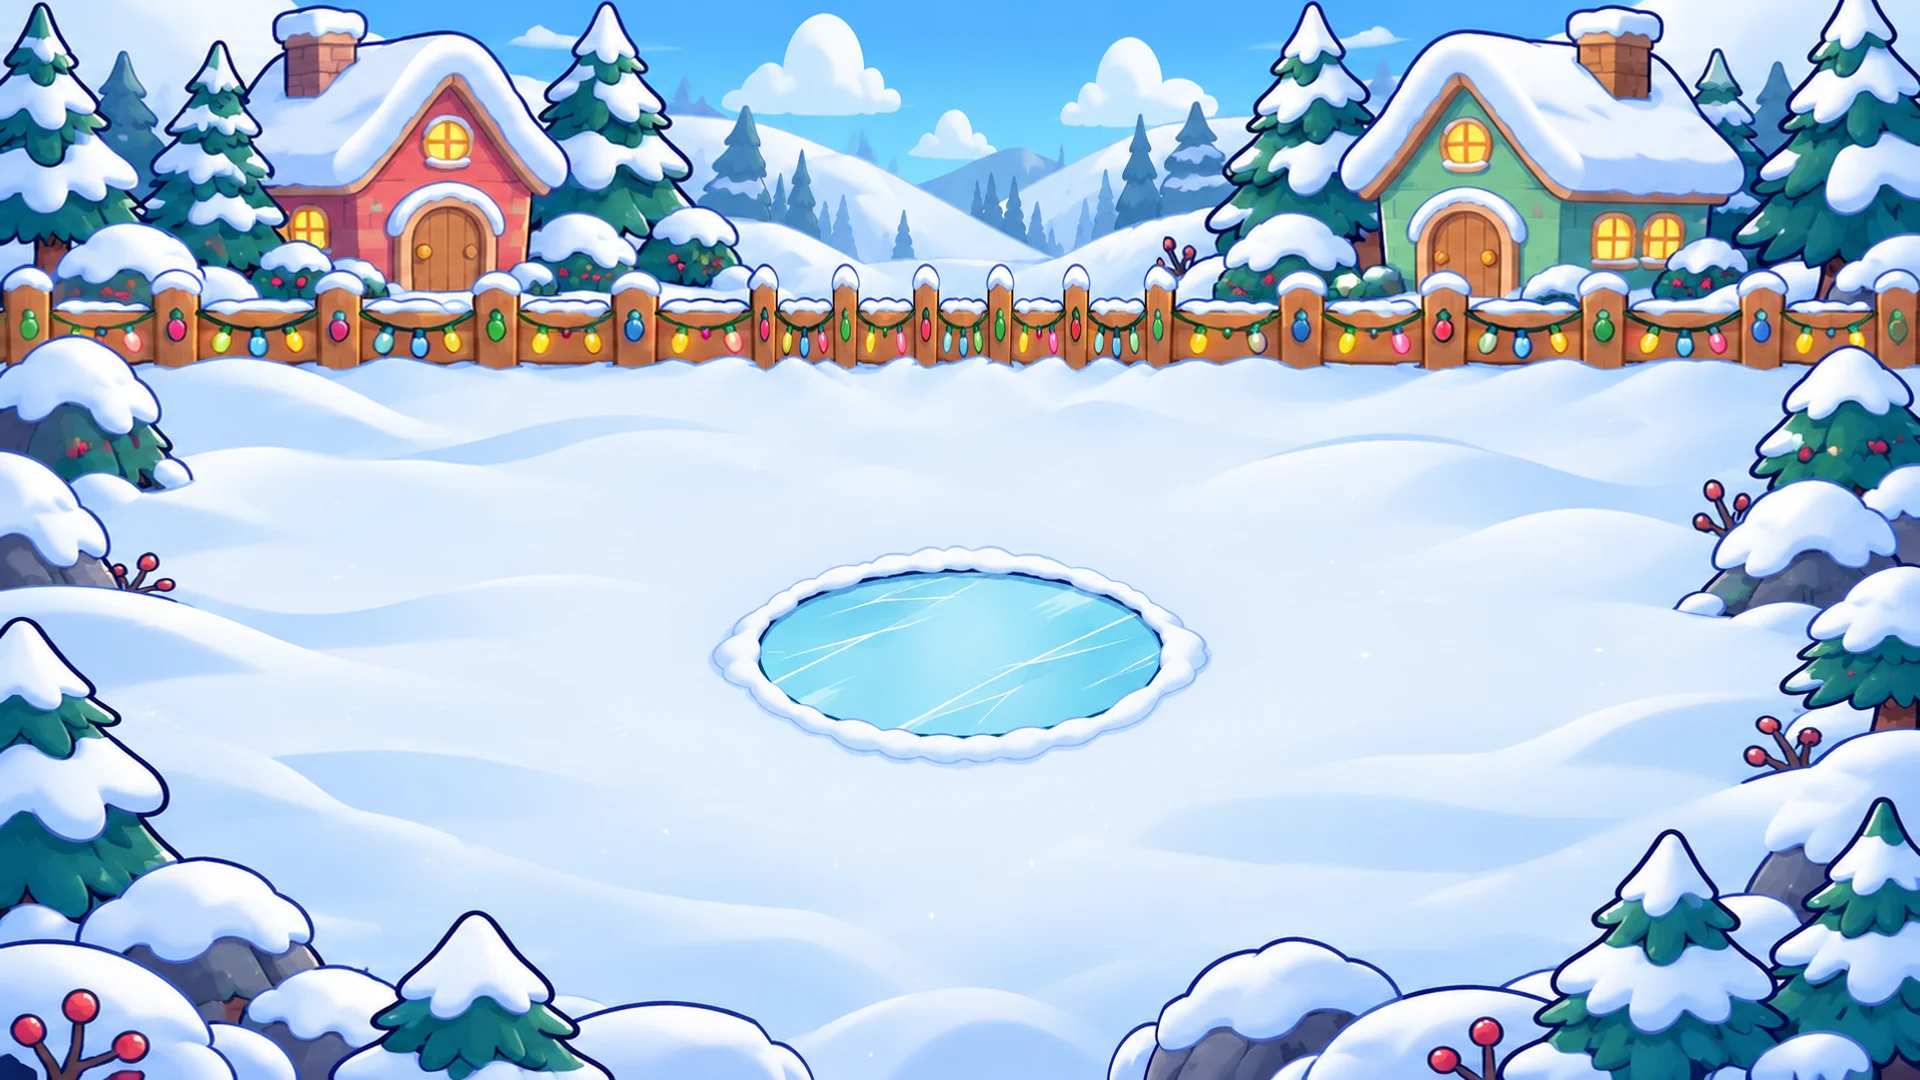
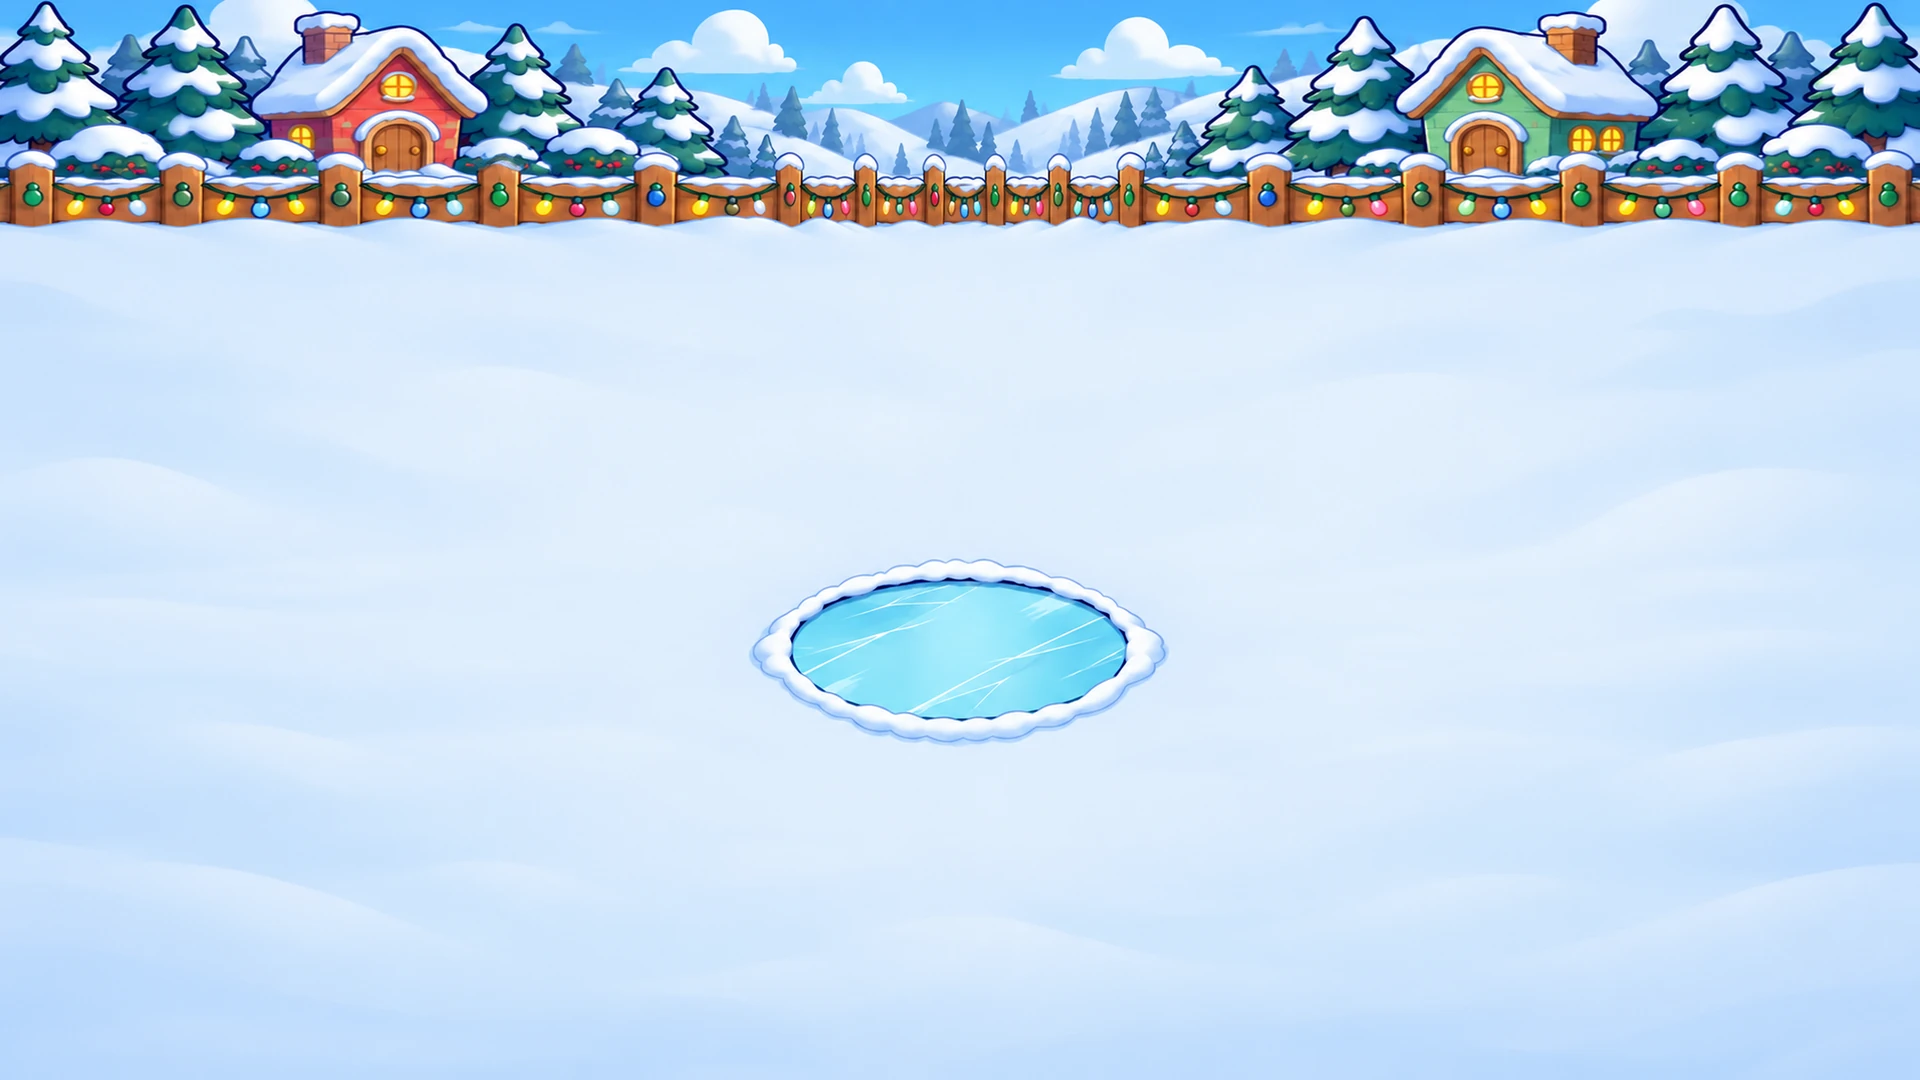
Regenerate Snowball Splat clear arena and parallel snow wall

diff --git a/party/src/games/snowball-splat/art.js b/party/src/games/snowball-splat/art.js
@@ -206,43 +206,10 @@ export function drawWall(g, wl, k, dmg, t) {
 // and grows back on a rebuild, so the top never squashes. Fractions of the
 // image height that are the top face (see image-requests.md):
 const WALL_TOP = { h: 0.34, v: 0.67 };
-const STRIPS = 32;
-const rowSpans = new WeakMap();
-/** Opaque [left, right) of each of STRIPS rows over the top face (null if unreadable). */
-function topSpans(img, srcTop) {
-  if (rowSpans.has(img)) return rowSpans.get(img);
-  let spans = null;
-  try {
-    const cv = document.createElement('canvas'); cv.width = img.width; cv.height = Math.ceil(srcTop);
-    const c = cv.getContext('2d', { willReadFrequently: true });
-    c.drawImage(img, 0, 0);
-    const d = c.getImageData(0, 0, cv.width, cv.height).data, iw = cv.width;
-    spans = [];
-    for (let i = 0; i < STRIPS; i++) {
-      const y = Math.min(cv.height - 1, Math.floor(((i + 0.5) / STRIPS) * srcTop));
-      let l = 0, r = iw - 1;
-      while (l < r && d[(y * iw + l) * 4 + 3] < 128) l++;
-      while (r > l && d[(y * iw + r) * 4 + 3] < 128) r--;
-      spans.push(r - l > 8 ? [l, r + 1] : [0, iw]);
-    }
-  } catch (e) { spans = null; }
-  rowSpans.set(img, spans);
-  return spans;
-}
 function drawWallArt(g, img, horiz, x0, y0, w, d, h) {
   const iw = img.width, ih = img.height, top = ih * (horiz ? WALL_TOP.h : WALL_TOP.v);
   const yTop = y0 - h;
-  const spans = horiz ? null : topSpans(img, top);
-  if (spans) {
-    // The side wall's top face narrows toward the far end in the art (a
-    // vanishing point the game's camera doesn't have): crop each strip to its
-    // opaque width so the wall keeps straight sides over its footprint.
-    for (let i = 0; i < STRIPS; i++) {
-      const [l, r] = spans[i];
-      const sy = (i / STRIPS) * top, sh = top / STRIPS;
-      g.drawImage(img, l, sy, r - l, sh, x0, yTop + (i / STRIPS) * d, w, d / STRIPS + 0.6);
-    }
-  } else g.drawImage(img, 0, 0, iw, top, x0, yTop, w, d);
+  g.drawImage(img, 0, 0, iw, top, x0, yTop, w, d);
   if (h > 0.5) g.drawImage(img, 0, top, iw, ih - top, x0, yTop + d, w, h);
 }
 

diff --git a/party/index.html b/party/index.html
@@ -116,8 +116,8 @@
         "./src/games/seek-and-find/painters.js": "./src/games/seek-and-find/painters.js?v=2f185fe5",
         "./src/games/seek-and-find/scenes.js": "./src/games/seek-and-find/scenes.js?v=819de86d",
         "./src/games/seek-and-find/things.js": "./src/games/seek-and-find/things.js?v=fb5d5161",
-        "./src/games/snowball-splat.js": "./src/games/snowball-splat.js?v=597d1334",
-        "./src/games/snowball-splat/art.js": "./src/games/snowball-splat/art.js?v=bcae8fdc",
+        "./src/games/snowball-splat.js": "./src/games/snowball-splat.js?v=360427d3",
+        "./src/games/snowball-splat/art.js": "./src/games/snowball-splat/art.js?v=6ebfc3b9",
         "./src/games/spotlight-dance.js": "./src/games/spotlight-dance.js?v=9012cd41",
         "./src/games/sprinkle-catch.js": "./src/games/sprinkle-catch.js?v=35fcbcf8",
         "./src/games/treasure-dig.js": "./src/games/treasure-dig.js?v=ecf2cd2a",

diff --git a/party/src/games/snowball-splat.js b/party/src/games/snowball-splat.js
@@ -66,7 +66,7 @@ const SNOWMEN = [
   { x: 1265, y: 655, scarf: '#9b5cff', hat: '#ff9f1c' },
 ];
 const SM_R = 40;
-const ARENA_TOP = 280, ARENA_TOP_ART = 345;
+const ARENA_TOP = 280, ARENA_TOP_ART = 280;
 
 const inIce = (x, y) => ((x - POND.x) / POND.rx) ** 2 + ((y - POND.y) / POND.ry) ** 2 < 1;
 const angDiff = (a, b) => Math.atan2(Math.sin(a - b), Math.cos(a - b));

diff --git a/party/image-requests.md b/party/image-requests.md
@@ -1112,8 +1112,6 @@ make it read better. Newest first; fixed items move to
 | `thumb/cloud-hop` (optional) | The rain cloud frowns (the request asked for sleepy and content) and the trampoline is blue instead of the in-game pink-and-white stripes. | Same composition; make the rain cloud sleepy and content, and the trampoline pink-and-white striped like `prop/cloudhop-trampoline`. 800×500, opaque. |
 | `prop/treasure-chest-open` (optional) | Drawn in 3/4 view (lid hinged to the right) while `prop/treasure-chest` is straight front-on, so the chest seems to turn when it opens. | Same front-on view, scale and outline as `prop/treasure-chest` (same plank and band layout and lock position), lid flipped up behind, heaped coins and a pearl necklace; 300×300, transparent, bottom-centre at the base, a few px of padding below the base. |
 | `prop/golf-cookie-bridge` (optional) | The visible cookie is a thin 3.3:1 strip (411×123) inside the 440×230 canvas; the code trims it and stretches it to the 1.9:1 bridge, so the crackers become tall planks and the chips stretch. | Fill the 440×230 canvas edge to edge (≤8 px padding) at the requested 1.9:1: a wide graham-cracker bridge seen from above (e.g. two rows of square crackers, or one big cracker with perforations), chocolate chips, crumbs only inside the canvas. |
-| `bg/snowball-splat` | The fence is painted at y≈270–365, not the requested 200–245, so players at the top of the play area stood on the fence rail. The code now starts the play area at y 345 while this background is in use (about 65 px of field lost). Pine trees and snowbanks also come well into the play area (x 90–1830, y 280–1028): bottom-left trees from y≈870, a bush at x 1110–1300 from y≈940, bottom-right trees from x≈1550 / y≈830, right-edge trees at x>1700 / y 380–760; players walk over them. The pond is perfect. | 1920×1080, opaque. Keep the cottages, pond (centre (960, 652), 205×88 plus a ~20 px rim) and style exactly. Move the fence up so its snowy base line is at y ≤ 250, with only sky, cottages and trees above it. Keep x 90–1830, y 260–1028 plain open snow (gentle drifts only); trees and banks only outside that box (x < 90, x > 1830, or y > 1028). When it lands, set `ARENA_TOP_ART` back to 280 in `snowball-splat.js`. |
-| `prop/snow-wall-side` | The top face narrows from 170 px at the front to 60 px at the far end (a vanishing point), but the game has no perspective (front walls don't narrow), so it read as a tall white obelisk. The code now crops each row of the top face to its painted width, which leaves thin side outlines. | 176×1016, transparent, same style as `prop/snow-wall`. The top face (top 67%) must be a straight-sided strip **as wide as the front end the whole way up** (no taper), with a lumpy snow edge and a navy outline on both long sides and the far end. Bottom 33%: the front end with brick seams, as now. |
 | `prop/jump-rope-bunny-pink-cheer`, `-sneaky`, `-oops`; `prop/jump-rope-bunny-mint-cheer`, `-sneaky`, `-oops` (optional) | The painted face never changes, so the bunnies' moods only show through an emote the code adds next to the head. The code already looks up these keys (`excited` uses `-cheer`). | 6 images, each 600×660, transparent: the same canvas, pose, outfit, feet point (300, 660) and shoulder points (343, 370) / (249, 367) as the base bunny, no arms; only the face changes. **cheer:** eyes closed in happy arcs, big open smile. **sneaky:** sleepy half-closed sly eyes, a little smirk. **oops:** squeezed-shut wince eyes, a small round "o" mouth. No sweat drops, zzz or sparkles (the code draws those). |
 
 Engine-side notes from the same review: several keys are aliases of one

diff --git a/party/image-requests-history.md b/party/image-requests-history.md
@@ -1,5 +1,19 @@
 # Charlie Party: image request history
 
+## 2026-10-12 — Snowball Splat revisions delivered
+
+Regenerated the clear snow arena and parallel side wall with built-in imagegen.
+Geometric intake aligns the fence above250 and pond to(960,652); restored
+ARENA_TOP_ART280 and removed the old taper correction. Running three-player
+CPU game reviewed with no console errors. Exact prompts/sources in
+reference/pending/OCT12-REGENERATIONS.json.
+
+| Key | Previous issue | Completed request |
+| --- | --- | --- |
+| `bg/snowball-splat` | The fence is painted at y≈270–365, not the requested 200–245, so players at the top of the play area stood on the fence rail. The code now starts the play area at y 345 while this background is in use (about 65 px of field lost). Pine trees and snowbanks also come well into the play area (x 90–1830, y 280–1028): bottom-left trees from y≈870, a bush at x 1110–1300 from y≈940, bottom-right trees from x≈1550 / y≈830, right-edge trees at x>1700 / y 380–760; players walk over them. The pond is perfect. | 1920×1080, opaque. Keep the cottages, pond (centre (960, 652), 205×88 plus a ~20 px rim) and style exactly. Move the fence up so its snowy base line is at y ≤ 250, with only sky, cottages and trees above it. Keep x 90–1830, y 260–1028 plain open snow (gentle drifts only); trees and banks only outside that box (x < 90, x > 1830, or y > 1028). When it lands, set `ARENA_TOP_ART` back to 280 in `snowball-splat.js`. |
+| `prop/snow-wall-side` | The top face narrows from 170 px at the front to 60 px at the far end (a vanishing point), but the game has no perspective (front walls don't narrow), so it read as a tall white obelisk. The code now crops each row of the top face to its painted width, which leaves thin side outlines. | 176×1016, transparent, same style as `prop/snow-wall`. The top face (top 67%) must be a straight-sided strip **as wide as the front end the whole way up** (no taper), with a lumpy snow edge and a navy outline on both long sides and the far end. Bottom 33%: the front end with brick seams, as now. |
+
+
 Fielded image requests (delivered and checked in game, or resolved or dropped),
 moved out of [`image-requests.md`](image-requests.md) to keep that file to
 standing guidance and open requests. **Newest at the top.** When you field a
